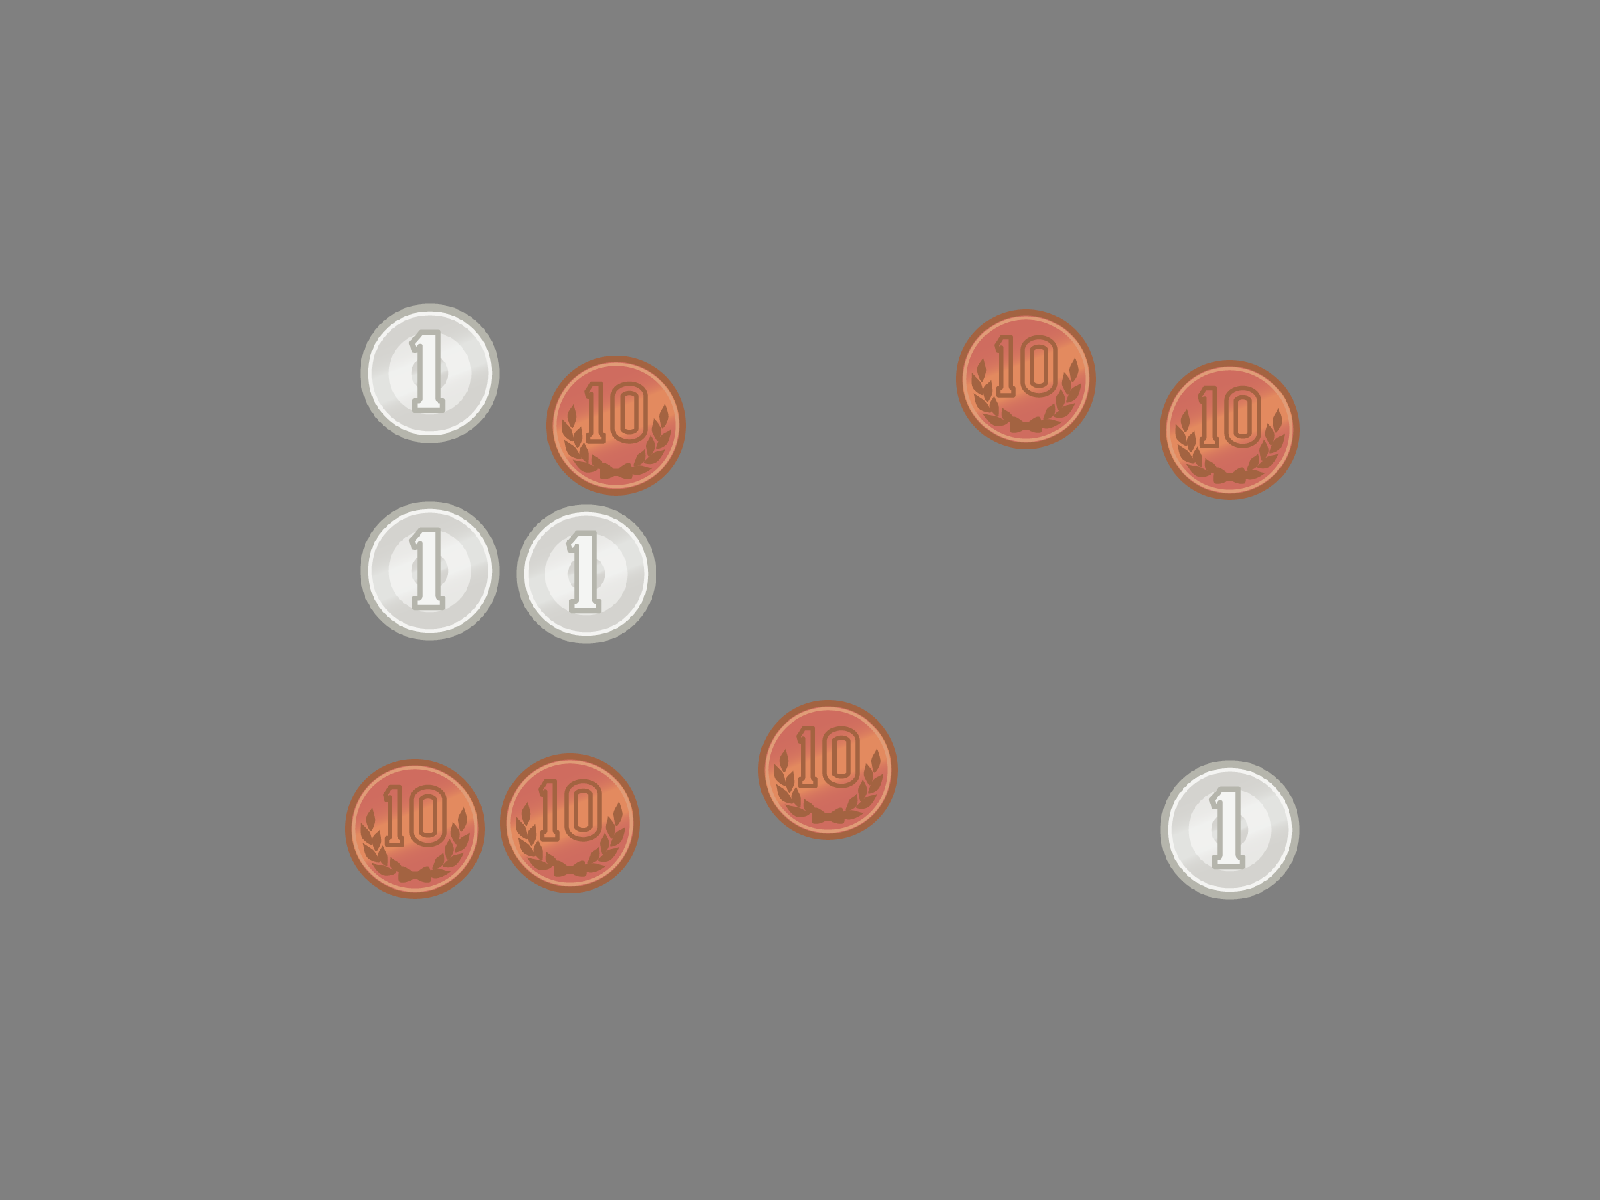
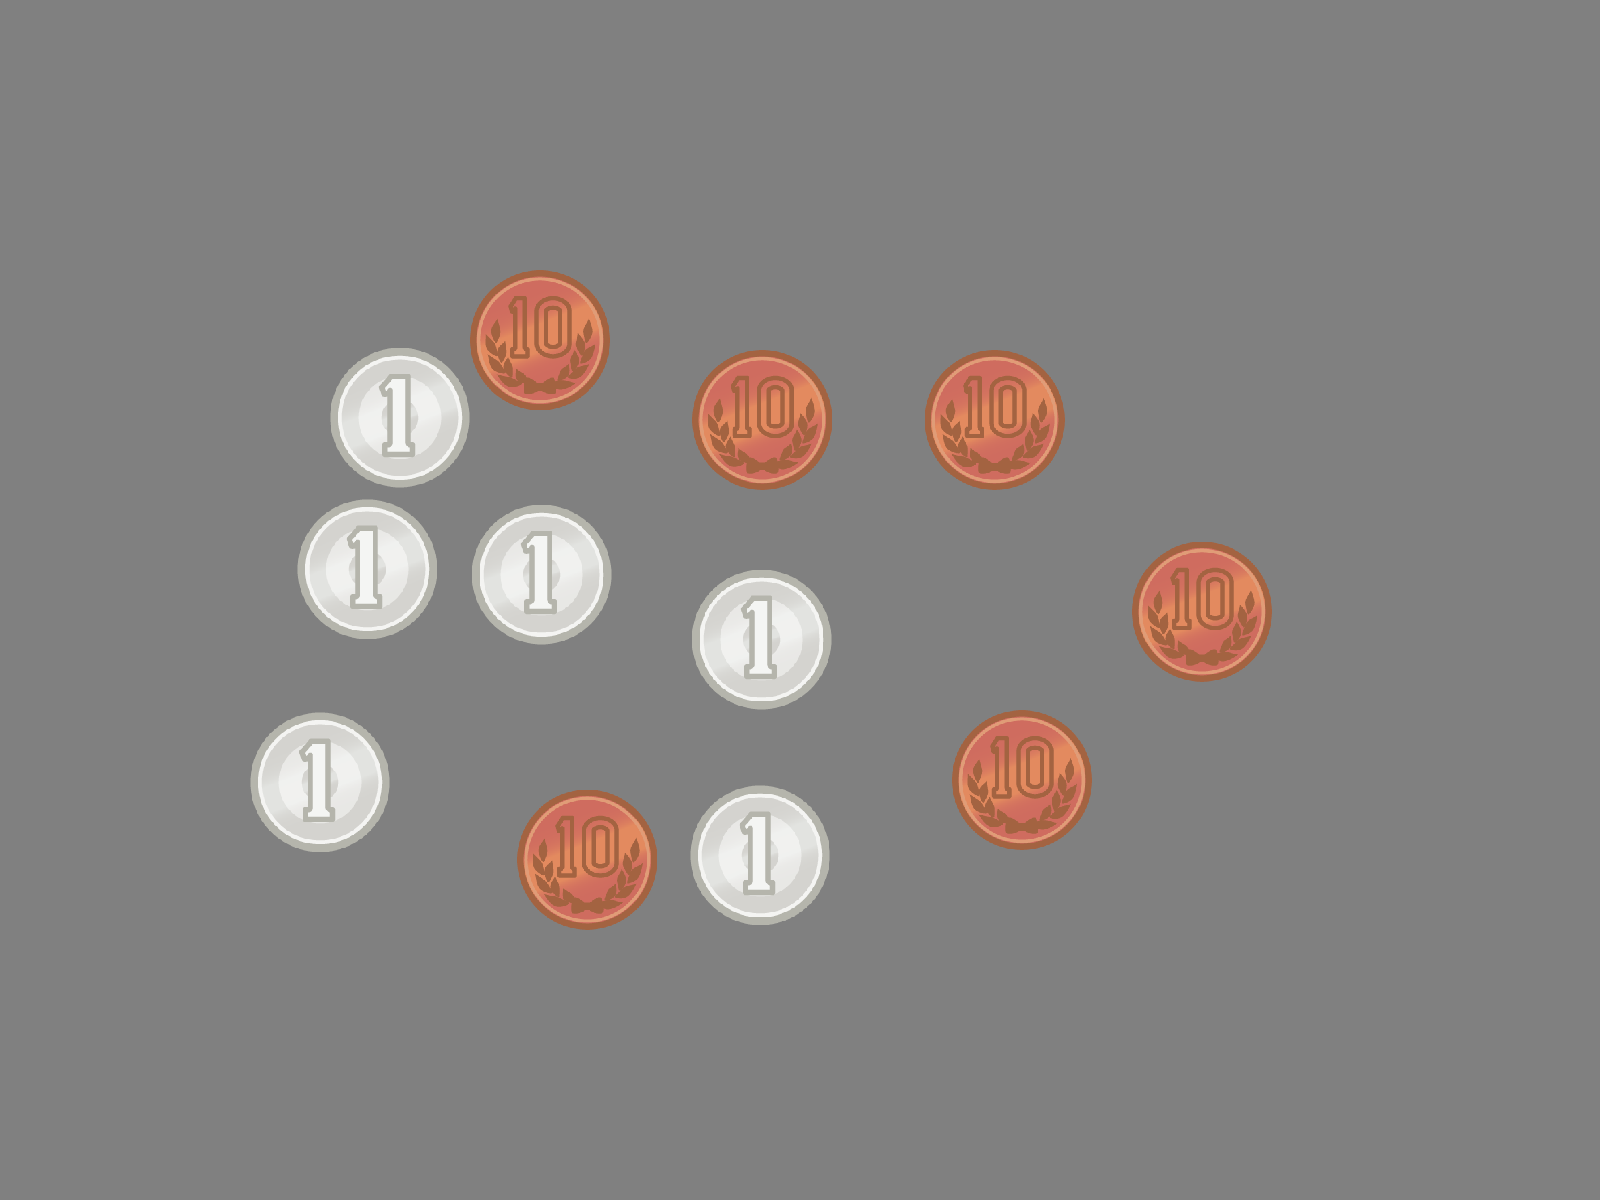
Add files via upload

diff --git a/07082320/Serial_dependence_dots3.py b/07082320/Serial_dependence_dots3.py
@@ -75,10 +75,10 @@ win = visual.Window(
 # coin size
 size_coin = 70
 # grid
-jitter = 15
+jitter = 20
 grid_width = size_coin + jitter * 2
-grid_x = list(range(-200, 201, int(grid_width)))
-grid_y = list(range(-100, 101, int(grid_width)))
+grid_x = list(range(-220, 221, int(grid_width)))
+grid_y = list(range(-110, 111, int(grid_width)))
 grid = []
 for i in grid_x:
     for j in grid_y:
